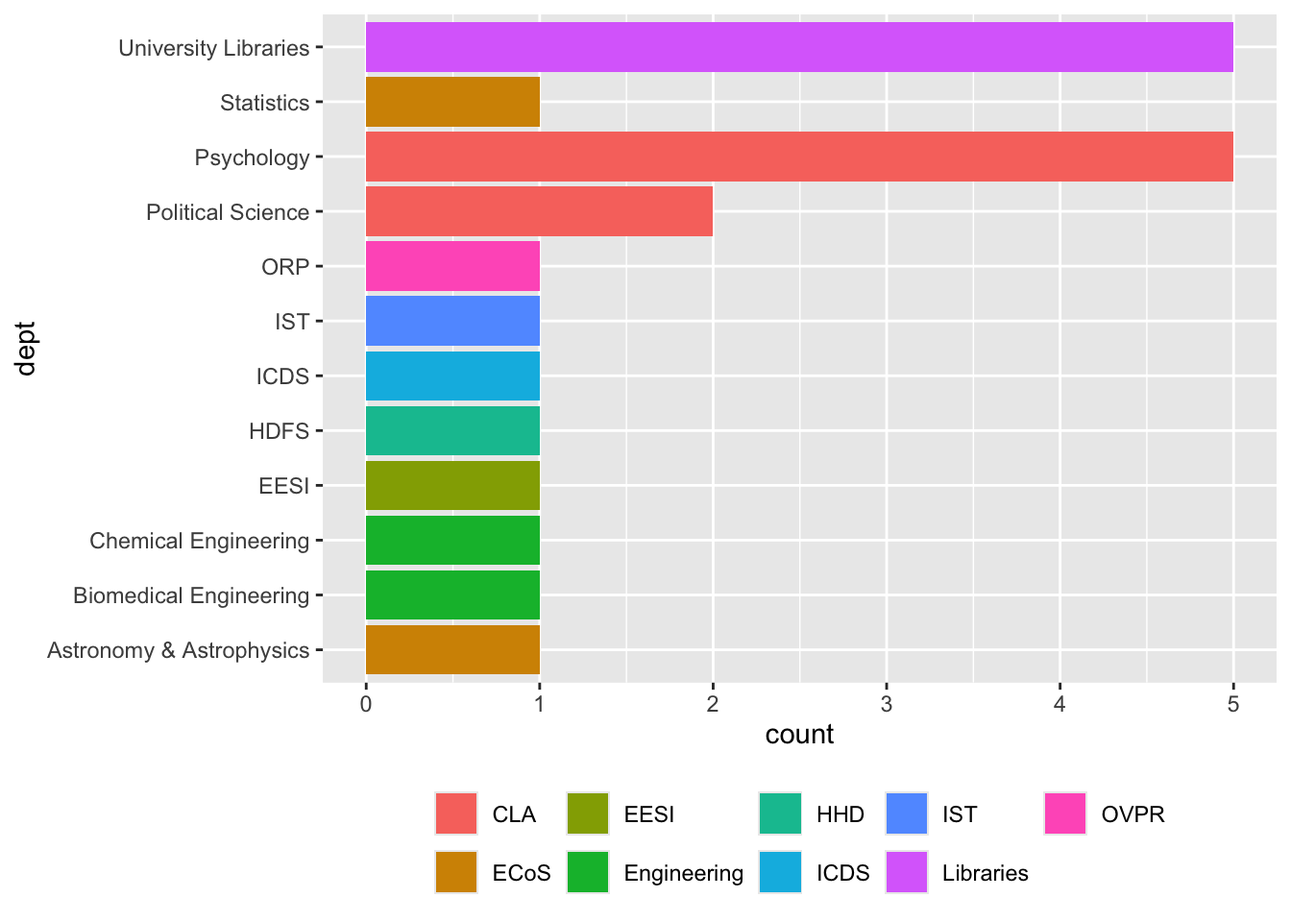
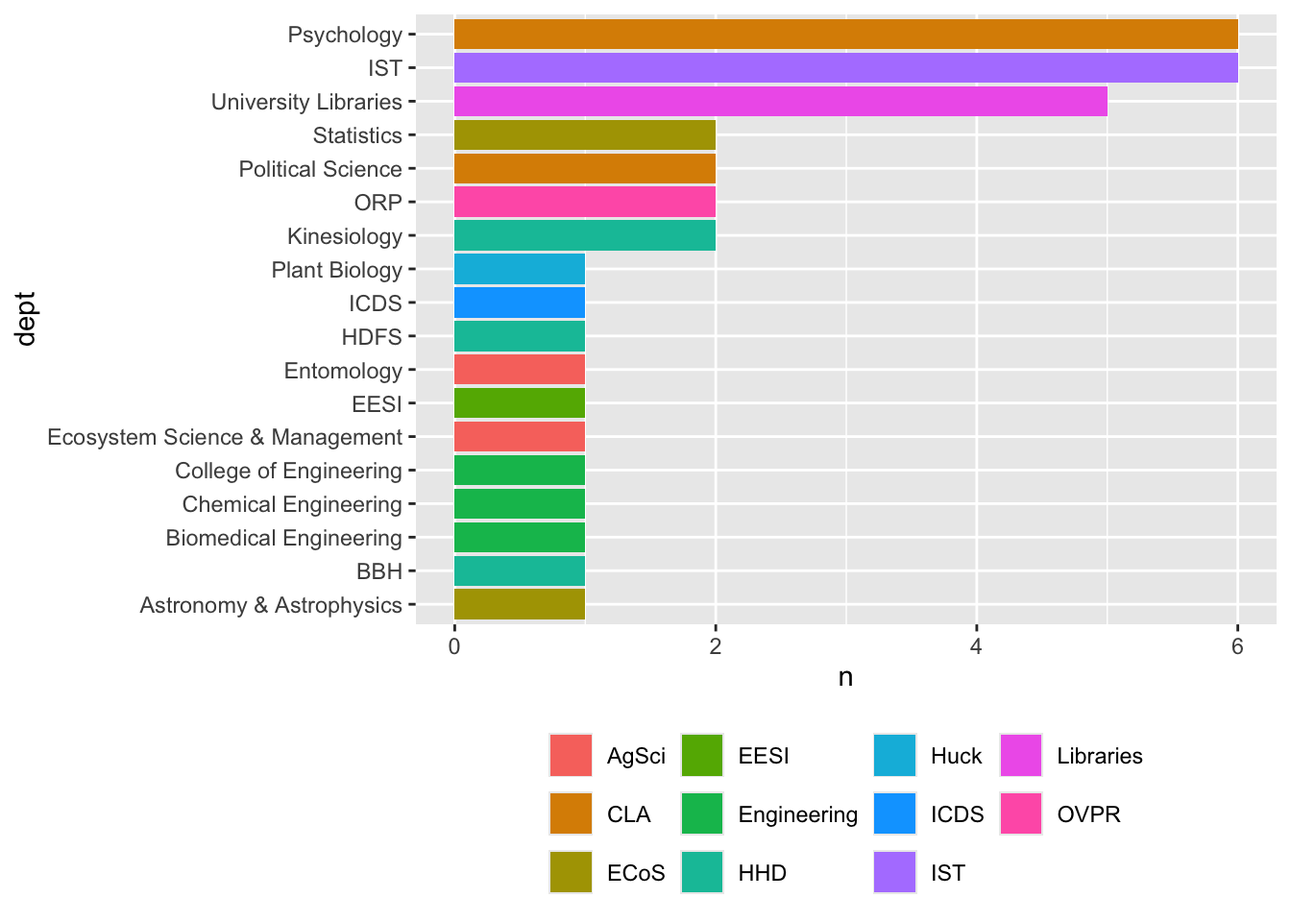
Add Olivia Beck and Sara Horn; reorder figures in registrations.qmd.

diff --git a/docs/registration.html b/docs/registration.html
@@ -301,7 +301,7 @@ window.Quarto = {
     <div>
     <div class="quarto-title-meta-heading">Modified</div>
     <div class="quarto-title-meta-contents">
-      <p class="date-modified">July 4, 2025</p>
+      <p class="date-modified">July 8, 2025</p>
     </div>
   </div>
     
@@ -532,7 +532,7 @@ Table&nbsp;9.1: A minimal data dictionary.
 <span id="cb7-5"><a href="#cb7-5" aria-hidden="true" tabindex="-1"></a>  dplyr<span class="sc">::</span><span class="fu">mutate</span>(<span class="at">keynotes =</span> stringr<span class="sc">::</span><span class="fu">str_detect</span>(<span class="at">string =</span> bootcamp_keynote, <span class="at">pattern =</span> <span class="st">"Keynote"</span>))</span></code><button title="Copy to Clipboard" class="code-copy-button"><i class="bi"></i></button></pre></div>
 </details>
 </div>
-<p>As of 2025-07-04 07:58:03.36449, we have <span class="math inline">\(n=\)</span> 22 registered attendees. That is 29.3 % of our target registration/attendance limit of <em>n</em>=75.</p>
+<p>As of 2025-07-08 10:20:08.55943, we have <span class="math inline">\(n=\)</span> 37 registered attendees. That is 49.3 % of our target registration/attendance limit of <em>n</em>=75.</p>
 </section>
 <section id="time-series" class="level3 unnumbered">
 <h3 class="unnumbered anchored" data-anchor-id="time-series">Time series</h3>
@@ -555,11 +555,11 @@ Table&nbsp;9.1: A minimal data dictionary.
 <span id="cb8-14"><a href="#cb8-14" aria-hidden="true" tabindex="-1"></a>  <span class="fu">theme</span>(<span class="at">legend.position =</span> <span class="st">"none"</span>)</span></code><button title="Copy to Clipboard" class="code-copy-button"><i class="bi"></i></button></pre></div>
 </details>
 <div class="cell-output cell-output-stderr">
-<pre><code>Warning: Removed 2 rows containing missing values or values outside the scale range
+<pre><code>Warning: Removed 17 rows containing missing values or values outside the scale range
 (`geom_point()`).</code></pre>
 </div>
 <div class="cell-output cell-output-stderr">
-<pre><code>Warning: Removed 2 rows containing missing values or values outside the scale range
+<pre><code>Warning: Removed 17 rows containing missing values or values outside the scale range
 (`geom_line()`).</code></pre>
 </div>
 <div class="cell-output-display">
@@ -617,13 +617,13 @@ n_fri
 <tbody>
 <tr>
 <td style="text-align:right;">
-15
+26
 </td>
 <td style="text-align:right;">
-18
+31
 </td>
 <td style="text-align:right;">
-12
+25
 </td>
 </tr>
 </tbody>
@@ -643,12 +643,14 @@ n_fri
 <summary>Code</summary>
 <div class="sourceCode cell-code" id="cb12"><pre class="sourceCode r code-with-copy"><code class="sourceCode r"><span id="cb12-1"><a href="#cb12-1" aria-hidden="true" tabindex="-1"></a>registrations_yes <span class="sc">|&gt;</span></span>
 <span id="cb12-2"><a href="#cb12-2" aria-hidden="true" tabindex="-1"></a>  dplyr<span class="sc">::</span><span class="fu">filter</span>(<span class="sc">!</span><span class="fu">is.na</span>(position)) <span class="sc">|&gt;</span></span>
-<span id="cb12-3"><a href="#cb12-3" aria-hidden="true" tabindex="-1"></a>  <span class="fu">ggplot</span>() <span class="sc">+</span></span>
-<span id="cb12-4"><a href="#cb12-4" aria-hidden="true" tabindex="-1"></a>  <span class="fu">aes</span>(<span class="at">x =</span> position, <span class="at">fill =</span> position) <span class="sc">+</span></span>
-<span id="cb12-5"><a href="#cb12-5" aria-hidden="true" tabindex="-1"></a>  <span class="fu">geom_bar</span>() <span class="sc">+</span></span>
-<span id="cb12-6"><a href="#cb12-6" aria-hidden="true" tabindex="-1"></a>  <span class="co"># facet_grid(registered_attended ~ .) +</span></span>
-<span id="cb12-7"><a href="#cb12-7" aria-hidden="true" tabindex="-1"></a>  <span class="fu">theme</span>(<span class="at">legend.position =</span> <span class="st">"none"</span>) <span class="sc">+</span></span>
-<span id="cb12-8"><a href="#cb12-8" aria-hidden="true" tabindex="-1"></a>  <span class="fu">coord_flip</span>()</span></code><button title="Copy to Clipboard" class="code-copy-button"><i class="bi"></i></button></pre></div>
+<span id="cb12-3"><a href="#cb12-3" aria-hidden="true" tabindex="-1"></a>  dplyr<span class="sc">::</span><span class="fu">count</span>(position) <span class="sc">|&gt;</span></span>
+<span id="cb12-4"><a href="#cb12-4" aria-hidden="true" tabindex="-1"></a>  dplyr<span class="sc">::</span><span class="fu">arrange</span>(n) <span class="sc">|&gt;</span></span>
+<span id="cb12-5"><a href="#cb12-5" aria-hidden="true" tabindex="-1"></a>  dplyr<span class="sc">::</span><span class="fu">mutate</span>(<span class="at">position =</span> <span class="fu">factor</span>(position, <span class="at">levels =</span> position)) <span class="sc">|&gt;</span></span>
+<span id="cb12-6"><a href="#cb12-6" aria-hidden="true" tabindex="-1"></a>  <span class="fu">ggplot</span>() <span class="sc">+</span></span>
+<span id="cb12-7"><a href="#cb12-7" aria-hidden="true" tabindex="-1"></a>  <span class="fu">aes</span>(<span class="at">x =</span> position, <span class="at">fill =</span> position) <span class="sc">+</span></span>
+<span id="cb12-8"><a href="#cb12-8" aria-hidden="true" tabindex="-1"></a>  <span class="fu">geom_bar</span>(<span class="fu">aes</span>(<span class="at">y =</span> n), <span class="at">stat =</span> <span class="st">"identity"</span>) <span class="sc">+</span></span>
+<span id="cb12-9"><a href="#cb12-9" aria-hidden="true" tabindex="-1"></a>  <span class="fu">theme</span>(<span class="at">legend.position =</span> <span class="st">"none"</span>) <span class="sc">+</span></span>
+<span id="cb12-10"><a href="#cb12-10" aria-hidden="true" tabindex="-1"></a>  <span class="fu">coord_flip</span>()</span></code><button title="Copy to Clipboard" class="code-copy-button"><i class="bi"></i></button></pre></div>
 </details>
 <div class="cell-output-display">
 <div id="fig-by-position" class="quarto-float quarto-figure quarto-figure-center anchored">
@@ -657,7 +659,7 @@ n_fri
 <img src="registration_files/figure-html/fig-by-position-1.png" class="img-fluid figure-img" width="672">
 </div>
 <figcaption class="quarto-float-caption-bottom quarto-float-caption quarto-float-fig" id="fig-by-position-caption-0ceaefa1-69ba-4598-a22c-09a6ac19f8ca">
-Figure&nbsp;9.2: Registrations vs.&nbsp;attendees by day and position
+Figure&nbsp;9.2: Registrations by position
 </figcaption>
 </figure>
 </div>
@@ -692,65 +694,71 @@ Figure&nbsp;9.2: Registrations vs.&nbsp;attendees by day and position
 <span id="cb13-22"><a href="#cb13-22" aria-hidden="true" tabindex="-1"></a>      <span class="st">`</span><span class="at">Human Development and Family Studies (HDFS)</span><span class="st">`</span> <span class="ot">=</span> <span class="st">"HDFS"</span>,</span>
 <span id="cb13-23"><a href="#cb13-23" aria-hidden="true" tabindex="-1"></a>      <span class="st">`</span><span class="at">Department of Human Development and Family Studies</span><span class="st">`</span> <span class="ot">=</span> <span class="st">"HDFS"</span>,</span>
 <span id="cb13-24"><a href="#cb13-24" aria-hidden="true" tabindex="-1"></a>      <span class="st">`</span><span class="at">HDFS/DEMO</span><span class="st">`</span> <span class="ot">=</span> <span class="st">"HDFS"</span>,</span>
-<span id="cb13-25"><a href="#cb13-25" aria-hidden="true" tabindex="-1"></a>      <span class="st">`</span><span class="at">RPTM</span><span class="st">`</span> <span class="ot">=</span> <span class="st">"Recreation, Park, &amp; Tourism Management"</span>,</span>
-<span id="cb13-26"><a href="#cb13-26" aria-hidden="true" tabindex="-1"></a>      <span class="st">`</span><span class="at">Sociology and Social Data Analytics</span><span class="st">`</span> <span class="ot">=</span> <span class="st">"Sociology"</span>,</span>
-<span id="cb13-27"><a href="#cb13-27" aria-hidden="true" tabindex="-1"></a>      <span class="st">`</span><span class="at">Spanish Italian and portuguese</span><span class="st">`</span> <span class="ot">=</span> <span class="st">"Spanish, Italian, &amp; Portuguese"</span>,</span>
-<span id="cb13-28"><a href="#cb13-28" aria-hidden="true" tabindex="-1"></a>      <span class="st">`</span><span class="at">Spanish, Italian, and Portuguese Department</span><span class="st">`</span> <span class="ot">=</span> <span class="st">"Spanish, Italian, &amp; Portuguese"</span>,</span>
-<span id="cb13-29"><a href="#cb13-29" aria-hidden="true" tabindex="-1"></a>      <span class="st">`</span><span class="at">Spanish Italian and Portuguese</span><span class="st">`</span> <span class="ot">=</span> <span class="st">"Spanish, Italian, &amp; Portuguese"</span>,</span>
-<span id="cb13-30"><a href="#cb13-30" aria-hidden="true" tabindex="-1"></a>      <span class="st">`</span><span class="at">Nutrition</span><span class="st">`</span> <span class="ot">=</span> <span class="st">"Nutritional Sciences"</span>,</span>
-<span id="cb13-31"><a href="#cb13-31" aria-hidden="true" tabindex="-1"></a>      <span class="st">`</span><span class="at">College of IST</span><span class="st">`</span> <span class="ot">=</span> <span class="st">"IST"</span>,</span>
-<span id="cb13-32"><a href="#cb13-32" aria-hidden="true" tabindex="-1"></a>      <span class="st">`</span><span class="at">Statistics Department</span><span class="st">`</span> <span class="ot">=</span> <span class="st">"Statistics"</span>,</span>
-<span id="cb13-33"><a href="#cb13-33" aria-hidden="true" tabindex="-1"></a>      <span class="st">`</span><span class="at">Recreation, Park and Tourism Management</span><span class="st">`</span> <span class="ot">=</span> <span class="st">"Recreation, Park, &amp; Tourism Management"</span>,</span>
-<span id="cb13-34"><a href="#cb13-34" aria-hidden="true" tabindex="-1"></a>      <span class="st">`</span><span class="at">SHS</span><span class="st">`</span> <span class="ot">=</span> <span class="st">"Student Health Svcs"</span>,</span>
-<span id="cb13-35"><a href="#cb13-35" aria-hidden="true" tabindex="-1"></a>      <span class="st">`</span><span class="at">ESM</span><span class="st">`</span> <span class="ot">=</span> <span class="st">"Engineering Science &amp; Mechanics"</span>,</span>
-<span id="cb13-36"><a href="#cb13-36" aria-hidden="true" tabindex="-1"></a>      <span class="st">`</span><span class="at">Engineering Science</span><span class="st">`</span> <span class="ot">=</span> <span class="st">"Engineering Science &amp; Mechanics"</span>,</span>
-<span id="cb13-37"><a href="#cb13-37" aria-hidden="true" tabindex="-1"></a>      <span class="st">`</span><span class="at">Engineering Science and Mechanics</span><span class="st">`</span> <span class="ot">=</span> <span class="st">"Engineering Science &amp; Mechanics"</span>,</span>
-<span id="cb13-38"><a href="#cb13-38" aria-hidden="true" tabindex="-1"></a>      <span class="st">`</span><span class="at">Department of Food Science</span><span class="st">`</span> <span class="ot">=</span> <span class="st">"Food Science"</span>,</span>
-<span id="cb13-39"><a href="#cb13-39" aria-hidden="true" tabindex="-1"></a>      <span class="st">`</span><span class="at">Libraries</span><span class="st">`</span> <span class="ot">=</span> <span class="st">"University Libraries"</span>,</span>
-<span id="cb13-40"><a href="#cb13-40" aria-hidden="true" tabindex="-1"></a>      <span class="st">`</span><span class="at">University libraries</span><span class="st">`</span> <span class="ot">=</span> <span class="st">"University Libraries"</span>,</span>
-<span id="cb13-41"><a href="#cb13-41" aria-hidden="true" tabindex="-1"></a>      </span>
-<span id="cb13-42"><a href="#cb13-42" aria-hidden="true" tabindex="-1"></a>      <span class="st">`</span><span class="at">Astronomy and Astrophysics</span><span class="st">`</span> <span class="ot">=</span> <span class="st">"Astronomy &amp; Astrophysics"</span></span>
-<span id="cb13-43"><a href="#cb13-43" aria-hidden="true" tabindex="-1"></a>    )</span>
-<span id="cb13-44"><a href="#cb13-44" aria-hidden="true" tabindex="-1"></a>  ) <span class="sc">|&gt;</span> </span>
-<span id="cb13-45"><a href="#cb13-45" aria-hidden="true" tabindex="-1"></a>  dplyr<span class="sc">::</span><span class="fu">mutate</span>(</span>
-<span id="cb13-46"><a href="#cb13-46" aria-hidden="true" tabindex="-1"></a>    <span class="at">college =</span> <span class="fu">case_match</span>(</span>
-<span id="cb13-47"><a href="#cb13-47" aria-hidden="true" tabindex="-1"></a>      dept,</span>
-<span id="cb13-48"><a href="#cb13-48" aria-hidden="true" tabindex="-1"></a>      <span class="st">"Statistics"</span> <span class="sc">~</span> <span class="st">"ECoS"</span>,</span>
-<span id="cb13-49"><a href="#cb13-49" aria-hidden="true" tabindex="-1"></a>      <span class="st">"Biology"</span> <span class="sc">~</span> <span class="st">"ECoS"</span>,</span>
-<span id="cb13-50"><a href="#cb13-50" aria-hidden="true" tabindex="-1"></a>      <span class="st">"Psychology"</span> <span class="sc">~</span> <span class="st">"CLA"</span>,</span>
-<span id="cb13-51"><a href="#cb13-51" aria-hidden="true" tabindex="-1"></a>      <span class="st">"Spanish, Italian, &amp; Portuguese"</span> <span class="sc">~</span> <span class="st">"CLA"</span>,</span>
-<span id="cb13-52"><a href="#cb13-52" aria-hidden="true" tabindex="-1"></a>      <span class="st">"Research Informatics and Publishing"</span> <span class="sc">~</span> <span class="st">"Libraries"</span>,</span>
-<span id="cb13-53"><a href="#cb13-53" aria-hidden="true" tabindex="-1"></a>      <span class="st">"Political Science"</span> <span class="sc">~</span> <span class="st">"CLA"</span>,</span>
-<span id="cb13-54"><a href="#cb13-54" aria-hidden="true" tabindex="-1"></a>      <span class="st">"Applied Linguistics"</span> <span class="sc">~</span> <span class="st">"CLA"</span>,</span>
-<span id="cb13-55"><a href="#cb13-55" aria-hidden="true" tabindex="-1"></a>      <span class="st">"Global Languages &amp; Literatures"</span> <span class="sc">~</span> <span class="st">"CLA"</span>,</span>
-<span id="cb13-56"><a href="#cb13-56" aria-hidden="true" tabindex="-1"></a>      <span class="st">"Sociology"</span> <span class="sc">~</span> <span class="st">"CLA"</span>,</span>
-<span id="cb13-57"><a href="#cb13-57" aria-hidden="true" tabindex="-1"></a>      <span class="st">"English"</span> <span class="sc">~</span> <span class="st">"CLA"</span>,</span>
-<span id="cb13-58"><a href="#cb13-58" aria-hidden="true" tabindex="-1"></a>      <span class="st">"C-SoDA"</span> <span class="sc">~</span> <span class="st">"CLA"</span>,</span>
-<span id="cb13-59"><a href="#cb13-59" aria-hidden="true" tabindex="-1"></a>      <span class="st">"Office of Digital Pedagogies and Initiatives"</span> <span class="sc">~</span> <span class="st">"CLA"</span>,</span>
-<span id="cb13-60"><a href="#cb13-60" aria-hidden="true" tabindex="-1"></a>      <span class="st">"Asian Studies"</span> <span class="sc">~</span> <span class="st">"CLA"</span>,</span>
-<span id="cb13-61"><a href="#cb13-61" aria-hidden="true" tabindex="-1"></a>      <span class="st">"IST"</span> <span class="sc">~</span> <span class="st">"IST"</span>,</span>
-<span id="cb13-62"><a href="#cb13-62" aria-hidden="true" tabindex="-1"></a>      <span class="st">"Chemical Engineering"</span> <span class="sc">~</span> <span class="st">"Engineering"</span>,</span>
-<span id="cb13-63"><a href="#cb13-63" aria-hidden="true" tabindex="-1"></a>      <span class="st">"Material Science and Engineering"</span> <span class="sc">~</span> <span class="st">"Engineering"</span>,</span>
-<span id="cb13-64"><a href="#cb13-64" aria-hidden="true" tabindex="-1"></a>      <span class="st">"Engineering Science &amp; Mechanics"</span> <span class="sc">~</span> <span class="st">"Engineering"</span>,</span>
-<span id="cb13-65"><a href="#cb13-65" aria-hidden="true" tabindex="-1"></a>      <span class="st">"Biomedical Engineering"</span> <span class="sc">~</span> <span class="st">"Engineering"</span>,</span>
-<span id="cb13-66"><a href="#cb13-66" aria-hidden="true" tabindex="-1"></a>      <span class="st">"Nutritional Sciences"</span> <span class="sc">~</span> <span class="st">"HHD"</span>,</span>
-<span id="cb13-67"><a href="#cb13-67" aria-hidden="true" tabindex="-1"></a>      <span class="st">"HDFS"</span> <span class="sc">~</span> <span class="st">"HHD"</span>,</span>
-<span id="cb13-68"><a href="#cb13-68" aria-hidden="true" tabindex="-1"></a>      <span class="st">"Kinesiology"</span> <span class="sc">~</span> <span class="st">"HHD"</span>,</span>
-<span id="cb13-69"><a href="#cb13-69" aria-hidden="true" tabindex="-1"></a>      <span class="st">"Recreation, Park, &amp; Tourism Management"</span> <span class="sc">~</span> <span class="st">"HHD"</span>,</span>
-<span id="cb13-70"><a href="#cb13-70" aria-hidden="true" tabindex="-1"></a>      <span class="st">"Bellisario College of Communication"</span> <span class="sc">~</span> <span class="st">"Comm"</span>,</span>
-<span id="cb13-71"><a href="#cb13-71" aria-hidden="true" tabindex="-1"></a>      <span class="st">"Marketing"</span> <span class="sc">~</span> <span class="st">"Smeal"</span>,</span>
-<span id="cb13-72"><a href="#cb13-72" aria-hidden="true" tabindex="-1"></a>      <span class="st">"Food Science"</span> <span class="sc">~</span> <span class="st">"Ag"</span>,</span>
-<span id="cb13-73"><a href="#cb13-73" aria-hidden="true" tabindex="-1"></a>      <span class="st">"Neuroscience"</span> <span class="sc">~</span> <span class="st">"Med"</span>,</span>
-<span id="cb13-74"><a href="#cb13-74" aria-hidden="true" tabindex="-1"></a>      <span class="st">"College of Human and Health Development"</span> <span class="sc">~</span> <span class="st">"HHD"</span>,</span>
-<span id="cb13-75"><a href="#cb13-75" aria-hidden="true" tabindex="-1"></a>      <span class="st">"University Libraries"</span> <span class="sc">~</span> <span class="st">"Libraries"</span>,</span>
-<span id="cb13-76"><a href="#cb13-76" aria-hidden="true" tabindex="-1"></a>      <span class="st">"ICDS"</span> <span class="sc">~</span> <span class="st">"ICDS"</span>,</span>
-<span id="cb13-77"><a href="#cb13-77" aria-hidden="true" tabindex="-1"></a>      <span class="st">"EESI"</span> <span class="sc">~</span> <span class="st">"EESI"</span>,</span>
-<span id="cb13-78"><a href="#cb13-78" aria-hidden="true" tabindex="-1"></a>      <span class="st">"ORP"</span> <span class="sc">~</span> <span class="st">"OVPR"</span>,</span>
-<span id="cb13-79"><a href="#cb13-79" aria-hidden="true" tabindex="-1"></a>      <span class="st">"Astronomy &amp; Astrophysics"</span> <span class="sc">~</span> <span class="st">"ECoS"</span></span>
-<span id="cb13-80"><a href="#cb13-80" aria-hidden="true" tabindex="-1"></a>    ),</span>
-<span id="cb13-81"><a href="#cb13-81" aria-hidden="true" tabindex="-1"></a>    <span class="at">.default =</span> <span class="st">"Unknown"</span>,</span>
-<span id="cb13-82"><a href="#cb13-82" aria-hidden="true" tabindex="-1"></a>    <span class="at">.missing =</span> <span class="st">"Unknown"</span></span>
-<span id="cb13-83"><a href="#cb13-83" aria-hidden="true" tabindex="-1"></a>  )</span></code><button title="Copy to Clipboard" class="code-copy-button"><i class="bi"></i></button></pre></div>
+<span id="cb13-25"><a href="#cb13-25" aria-hidden="true" tabindex="-1"></a>      <span class="st">`</span><span class="at">bbh</span><span class="st">`</span> <span class="ot">=</span> <span class="st">"BBH"</span>,</span>
+<span id="cb13-26"><a href="#cb13-26" aria-hidden="true" tabindex="-1"></a>      <span class="st">`</span><span class="at">RPTM</span><span class="st">`</span> <span class="ot">=</span> <span class="st">"Recreation, Park, &amp; Tourism Management"</span>,</span>
+<span id="cb13-27"><a href="#cb13-27" aria-hidden="true" tabindex="-1"></a>      <span class="st">`</span><span class="at">Sociology and Social Data Analytics</span><span class="st">`</span> <span class="ot">=</span> <span class="st">"Sociology"</span>,</span>
+<span id="cb13-28"><a href="#cb13-28" aria-hidden="true" tabindex="-1"></a>      <span class="st">`</span><span class="at">Spanish Italian and portuguese</span><span class="st">`</span> <span class="ot">=</span> <span class="st">"Spanish, Italian, &amp; Portuguese"</span>,</span>
+<span id="cb13-29"><a href="#cb13-29" aria-hidden="true" tabindex="-1"></a>      <span class="st">`</span><span class="at">Spanish, Italian, and Portuguese Department</span><span class="st">`</span> <span class="ot">=</span> <span class="st">"Spanish, Italian, &amp; Portuguese"</span>,</span>
+<span id="cb13-30"><a href="#cb13-30" aria-hidden="true" tabindex="-1"></a>      <span class="st">`</span><span class="at">Spanish Italian and Portuguese</span><span class="st">`</span> <span class="ot">=</span> <span class="st">"Spanish, Italian, &amp; Portuguese"</span>,</span>
+<span id="cb13-31"><a href="#cb13-31" aria-hidden="true" tabindex="-1"></a>      <span class="st">`</span><span class="at">Nutrition</span><span class="st">`</span> <span class="ot">=</span> <span class="st">"Nutritional Sciences"</span>,</span>
+<span id="cb13-32"><a href="#cb13-32" aria-hidden="true" tabindex="-1"></a>      <span class="st">`</span><span class="at">College of IST</span><span class="st">`</span> <span class="ot">=</span> <span class="st">"IST"</span>,</span>
+<span id="cb13-33"><a href="#cb13-33" aria-hidden="true" tabindex="-1"></a>      <span class="st">`</span><span class="at">Statistics Department</span><span class="st">`</span> <span class="ot">=</span> <span class="st">"Statistics"</span>,</span>
+<span id="cb13-34"><a href="#cb13-34" aria-hidden="true" tabindex="-1"></a>      <span class="st">`</span><span class="at">Recreation, Park and Tourism Management</span><span class="st">`</span> <span class="ot">=</span> <span class="st">"Recreation, Park, &amp; Tourism Management"</span>,</span>
+<span id="cb13-35"><a href="#cb13-35" aria-hidden="true" tabindex="-1"></a>      <span class="st">`</span><span class="at">SHS</span><span class="st">`</span> <span class="ot">=</span> <span class="st">"Student Health Svcs"</span>,</span>
+<span id="cb13-36"><a href="#cb13-36" aria-hidden="true" tabindex="-1"></a>      <span class="st">`</span><span class="at">ESM</span><span class="st">`</span> <span class="ot">=</span> <span class="st">"Engineering Science &amp; Mechanics"</span>,</span>
+<span id="cb13-37"><a href="#cb13-37" aria-hidden="true" tabindex="-1"></a>      <span class="st">`</span><span class="at">Engineering Science</span><span class="st">`</span> <span class="ot">=</span> <span class="st">"Engineering Science &amp; Mechanics"</span>,</span>
+<span id="cb13-38"><a href="#cb13-38" aria-hidden="true" tabindex="-1"></a>      <span class="st">`</span><span class="at">Engineering Science and Mechanics</span><span class="st">`</span> <span class="ot">=</span> <span class="st">"Engineering Science &amp; Mechanics"</span>,</span>
+<span id="cb13-39"><a href="#cb13-39" aria-hidden="true" tabindex="-1"></a>      <span class="st">`</span><span class="at">Department of Food Science</span><span class="st">`</span> <span class="ot">=</span> <span class="st">"Food Science"</span>,</span>
+<span id="cb13-40"><a href="#cb13-40" aria-hidden="true" tabindex="-1"></a>      <span class="st">`</span><span class="at">Libraries</span><span class="st">`</span> <span class="ot">=</span> <span class="st">"University Libraries"</span>,</span>
+<span id="cb13-41"><a href="#cb13-41" aria-hidden="true" tabindex="-1"></a>      <span class="st">`</span><span class="at">University libraries</span><span class="st">`</span> <span class="ot">=</span> <span class="st">"University Libraries"</span>,</span>
+<span id="cb13-42"><a href="#cb13-42" aria-hidden="true" tabindex="-1"></a>      <span class="st">`</span><span class="at">Astronomy and Astrophysics</span><span class="st">`</span> <span class="ot">=</span> <span class="st">"Astronomy &amp; Astrophysics"</span>,</span>
+<span id="cb13-43"><a href="#cb13-43" aria-hidden="true" tabindex="-1"></a>      <span class="st">`</span><span class="at">Ecosystem Science and Management</span><span class="st">`</span> <span class="ot">=</span> <span class="st">"Ecosystem Science &amp; Management"</span></span>
+<span id="cb13-44"><a href="#cb13-44" aria-hidden="true" tabindex="-1"></a>    )</span>
+<span id="cb13-45"><a href="#cb13-45" aria-hidden="true" tabindex="-1"></a>  ) <span class="sc">|&gt;</span> </span>
+<span id="cb13-46"><a href="#cb13-46" aria-hidden="true" tabindex="-1"></a>  dplyr<span class="sc">::</span><span class="fu">mutate</span>(</span>
+<span id="cb13-47"><a href="#cb13-47" aria-hidden="true" tabindex="-1"></a>    <span class="at">college =</span> <span class="fu">case_match</span>(</span>
+<span id="cb13-48"><a href="#cb13-48" aria-hidden="true" tabindex="-1"></a>      dept,</span>
+<span id="cb13-49"><a href="#cb13-49" aria-hidden="true" tabindex="-1"></a>      <span class="st">"Statistics"</span> <span class="sc">~</span> <span class="st">"ECoS"</span>,</span>
+<span id="cb13-50"><a href="#cb13-50" aria-hidden="true" tabindex="-1"></a>      <span class="st">"Biology"</span> <span class="sc">~</span> <span class="st">"ECoS"</span>,</span>
+<span id="cb13-51"><a href="#cb13-51" aria-hidden="true" tabindex="-1"></a>      <span class="st">"Psychology"</span> <span class="sc">~</span> <span class="st">"CLA"</span>,</span>
+<span id="cb13-52"><a href="#cb13-52" aria-hidden="true" tabindex="-1"></a>      <span class="st">"Spanish, Italian, &amp; Portuguese"</span> <span class="sc">~</span> <span class="st">"CLA"</span>,</span>
+<span id="cb13-53"><a href="#cb13-53" aria-hidden="true" tabindex="-1"></a>      <span class="st">"Research Informatics and Publishing"</span> <span class="sc">~</span> <span class="st">"Libraries"</span>,</span>
+<span id="cb13-54"><a href="#cb13-54" aria-hidden="true" tabindex="-1"></a>      <span class="st">"Political Science"</span> <span class="sc">~</span> <span class="st">"CLA"</span>,</span>
+<span id="cb13-55"><a href="#cb13-55" aria-hidden="true" tabindex="-1"></a>      <span class="st">"Applied Linguistics"</span> <span class="sc">~</span> <span class="st">"CLA"</span>,</span>
+<span id="cb13-56"><a href="#cb13-56" aria-hidden="true" tabindex="-1"></a>      <span class="st">"Global Languages &amp; Literatures"</span> <span class="sc">~</span> <span class="st">"CLA"</span>,</span>
+<span id="cb13-57"><a href="#cb13-57" aria-hidden="true" tabindex="-1"></a>      <span class="st">"Sociology"</span> <span class="sc">~</span> <span class="st">"CLA"</span>,</span>
+<span id="cb13-58"><a href="#cb13-58" aria-hidden="true" tabindex="-1"></a>      <span class="st">"English"</span> <span class="sc">~</span> <span class="st">"CLA"</span>,</span>
+<span id="cb13-59"><a href="#cb13-59" aria-hidden="true" tabindex="-1"></a>      <span class="st">"C-SoDA"</span> <span class="sc">~</span> <span class="st">"CLA"</span>,</span>
+<span id="cb13-60"><a href="#cb13-60" aria-hidden="true" tabindex="-1"></a>      <span class="st">"Office of Digital Pedagogies and Initiatives"</span> <span class="sc">~</span> <span class="st">"CLA"</span>,</span>
+<span id="cb13-61"><a href="#cb13-61" aria-hidden="true" tabindex="-1"></a>      <span class="st">"Asian Studies"</span> <span class="sc">~</span> <span class="st">"CLA"</span>,</span>
+<span id="cb13-62"><a href="#cb13-62" aria-hidden="true" tabindex="-1"></a>      <span class="st">"IST"</span> <span class="sc">~</span> <span class="st">"IST"</span>,</span>
+<span id="cb13-63"><a href="#cb13-63" aria-hidden="true" tabindex="-1"></a>      <span class="st">"Chemical Engineering"</span> <span class="sc">~</span> <span class="st">"Engineering"</span>,</span>
+<span id="cb13-64"><a href="#cb13-64" aria-hidden="true" tabindex="-1"></a>      <span class="st">"Material Science and Engineering"</span> <span class="sc">~</span> <span class="st">"Engineering"</span>,</span>
+<span id="cb13-65"><a href="#cb13-65" aria-hidden="true" tabindex="-1"></a>      <span class="st">"Engineering Science &amp; Mechanics"</span> <span class="sc">~</span> <span class="st">"Engineering"</span>,</span>
+<span id="cb13-66"><a href="#cb13-66" aria-hidden="true" tabindex="-1"></a>      <span class="st">"College of Engineering"</span> <span class="sc">~</span> <span class="st">"Engineering"</span>,</span>
+<span id="cb13-67"><a href="#cb13-67" aria-hidden="true" tabindex="-1"></a>      <span class="st">"Biomedical Engineering"</span> <span class="sc">~</span> <span class="st">"Engineering"</span>,</span>
+<span id="cb13-68"><a href="#cb13-68" aria-hidden="true" tabindex="-1"></a>      <span class="st">"Nutritional Sciences"</span> <span class="sc">~</span> <span class="st">"HHD"</span>,</span>
+<span id="cb13-69"><a href="#cb13-69" aria-hidden="true" tabindex="-1"></a>      <span class="st">"HDFS"</span> <span class="sc">~</span> <span class="st">"HHD"</span>,</span>
+<span id="cb13-70"><a href="#cb13-70" aria-hidden="true" tabindex="-1"></a>      <span class="st">"Kinesiology"</span> <span class="sc">~</span> <span class="st">"HHD"</span>,</span>
+<span id="cb13-71"><a href="#cb13-71" aria-hidden="true" tabindex="-1"></a>      <span class="st">"Recreation, Park, &amp; Tourism Management"</span> <span class="sc">~</span> <span class="st">"HHD"</span>,</span>
+<span id="cb13-72"><a href="#cb13-72" aria-hidden="true" tabindex="-1"></a>      <span class="st">"BBH"</span> <span class="sc">~</span> <span class="st">"HHD"</span>,</span>
+<span id="cb13-73"><a href="#cb13-73" aria-hidden="true" tabindex="-1"></a>      <span class="st">"Bellisario College of Communication"</span> <span class="sc">~</span> <span class="st">"Comm"</span>,</span>
+<span id="cb13-74"><a href="#cb13-74" aria-hidden="true" tabindex="-1"></a>      <span class="st">"Marketing"</span> <span class="sc">~</span> <span class="st">"Smeal"</span>,</span>
+<span id="cb13-75"><a href="#cb13-75" aria-hidden="true" tabindex="-1"></a>      <span class="st">"Food Science"</span> <span class="sc">~</span> <span class="st">"Ag"</span>,</span>
+<span id="cb13-76"><a href="#cb13-76" aria-hidden="true" tabindex="-1"></a>      <span class="st">"Neuroscience"</span> <span class="sc">~</span> <span class="st">"Med"</span>,</span>
+<span id="cb13-77"><a href="#cb13-77" aria-hidden="true" tabindex="-1"></a>      <span class="st">"College of Human and Health Development"</span> <span class="sc">~</span> <span class="st">"HHD"</span>,</span>
+<span id="cb13-78"><a href="#cb13-78" aria-hidden="true" tabindex="-1"></a>      <span class="st">"University Libraries"</span> <span class="sc">~</span> <span class="st">"Libraries"</span>,</span>
+<span id="cb13-79"><a href="#cb13-79" aria-hidden="true" tabindex="-1"></a>      <span class="st">"ICDS"</span> <span class="sc">~</span> <span class="st">"ICDS"</span>,</span>
+<span id="cb13-80"><a href="#cb13-80" aria-hidden="true" tabindex="-1"></a>      <span class="st">"EESI"</span> <span class="sc">~</span> <span class="st">"EESI"</span>,</span>
+<span id="cb13-81"><a href="#cb13-81" aria-hidden="true" tabindex="-1"></a>      <span class="st">"ORP"</span> <span class="sc">~</span> <span class="st">"OVPR"</span>,</span>
+<span id="cb13-82"><a href="#cb13-82" aria-hidden="true" tabindex="-1"></a>      <span class="st">"Astronomy &amp; Astrophysics"</span> <span class="sc">~</span> <span class="st">"ECoS"</span>,</span>
+<span id="cb13-83"><a href="#cb13-83" aria-hidden="true" tabindex="-1"></a>      <span class="st">"Entomology"</span> <span class="sc">~</span> <span class="st">"AgSci"</span>,</span>
+<span id="cb13-84"><a href="#cb13-84" aria-hidden="true" tabindex="-1"></a>      <span class="st">"Ecosystem Science &amp; Management"</span> <span class="sc">~</span> <span class="st">"AgSci"</span>,</span>
+<span id="cb13-85"><a href="#cb13-85" aria-hidden="true" tabindex="-1"></a>      <span class="st">"Plant Biology"</span> <span class="sc">~</span> <span class="st">"Huck"</span></span>
+<span id="cb13-86"><a href="#cb13-86" aria-hidden="true" tabindex="-1"></a>    ),</span>
+<span id="cb13-87"><a href="#cb13-87" aria-hidden="true" tabindex="-1"></a>    <span class="at">.default =</span> <span class="st">"Unknown"</span>,</span>
+<span id="cb13-88"><a href="#cb13-88" aria-hidden="true" tabindex="-1"></a>    <span class="at">.missing =</span> <span class="st">"Unknown"</span></span>
+<span id="cb13-89"><a href="#cb13-89" aria-hidden="true" tabindex="-1"></a>  )</span></code><button title="Copy to Clipboard" class="code-copy-button"><i class="bi"></i></button></pre></div>
 </details>
 </div>
 <div class="cell">
@@ -759,12 +767,14 @@ Figure&nbsp;9.2: Registrations vs.&nbsp;attendees by day and position
 <div class="sourceCode cell-code" id="cb14"><pre class="sourceCode r code-with-copy"><code class="sourceCode r"><span id="cb14-1"><a href="#cb14-1" aria-hidden="true" tabindex="-1"></a>registrations_yes <span class="sc">|&gt;</span></span>
 <span id="cb14-2"><a href="#cb14-2" aria-hidden="true" tabindex="-1"></a>  dplyr<span class="sc">::</span><span class="fu">filter</span>(<span class="sc">!</span><span class="fu">is.na</span>(dept),</span>
 <span id="cb14-3"><a href="#cb14-3" aria-hidden="true" tabindex="-1"></a>                dept <span class="sc">!=</span> <span class="st">"University of Pennsylvania"</span>) <span class="sc">|&gt;</span></span>
-<span id="cb14-4"><a href="#cb14-4" aria-hidden="true" tabindex="-1"></a>  <span class="fu">ggplot</span>() <span class="sc">+</span></span>
-<span id="cb14-5"><a href="#cb14-5" aria-hidden="true" tabindex="-1"></a>  <span class="fu">aes</span>(<span class="at">x =</span> dept, <span class="at">fill =</span> college) <span class="sc">+</span></span>
-<span id="cb14-6"><a href="#cb14-6" aria-hidden="true" tabindex="-1"></a>  <span class="fu">geom_bar</span>() <span class="sc">+</span></span>
-<span id="cb14-7"><a href="#cb14-7" aria-hidden="true" tabindex="-1"></a>  <span class="fu">theme</span>(<span class="at">legend.position =</span> <span class="st">"bottom"</span>) <span class="sc">+</span></span>
-<span id="cb14-8"><a href="#cb14-8" aria-hidden="true" tabindex="-1"></a>  <span class="fu">theme</span>(<span class="at">legend.title =</span> <span class="fu">element_blank</span>()) <span class="sc">+</span></span>
-<span id="cb14-9"><a href="#cb14-9" aria-hidden="true" tabindex="-1"></a>  <span class="fu">coord_flip</span>()</span></code><button title="Copy to Clipboard" class="code-copy-button"><i class="bi"></i></button></pre></div>
+<span id="cb14-4"><a href="#cb14-4" aria-hidden="true" tabindex="-1"></a>  dplyr<span class="sc">::</span><span class="fu">count</span>(dept, college, <span class="at">sort =</span> <span class="cn">TRUE</span>) <span class="sc">|&gt;</span></span>
+<span id="cb14-5"><a href="#cb14-5" aria-hidden="true" tabindex="-1"></a>  dplyr<span class="sc">::</span><span class="fu">mutate</span>(<span class="at">dept =</span> <span class="fu">fct_reorder</span>(dept, n)) <span class="sc">|&gt;</span></span>
+<span id="cb14-6"><a href="#cb14-6" aria-hidden="true" tabindex="-1"></a>  <span class="fu">ggplot</span>() <span class="sc">+</span></span>
+<span id="cb14-7"><a href="#cb14-7" aria-hidden="true" tabindex="-1"></a>  <span class="fu">aes</span>(<span class="at">x =</span> dept, <span class="at">fill =</span> college) <span class="sc">+</span></span>
+<span id="cb14-8"><a href="#cb14-8" aria-hidden="true" tabindex="-1"></a>  <span class="fu">geom_bar</span>(<span class="fu">aes</span>(<span class="at">y =</span> n), <span class="at">stat =</span> <span class="st">"identity"</span>) <span class="sc">+</span></span>
+<span id="cb14-9"><a href="#cb14-9" aria-hidden="true" tabindex="-1"></a>  <span class="fu">theme</span>(<span class="at">legend.position =</span> <span class="st">"bottom"</span>) <span class="sc">+</span></span>
+<span id="cb14-10"><a href="#cb14-10" aria-hidden="true" tabindex="-1"></a>  <span class="fu">theme</span>(<span class="at">legend.title =</span> <span class="fu">element_blank</span>()) <span class="sc">+</span></span>
+<span id="cb14-11"><a href="#cb14-11" aria-hidden="true" tabindex="-1"></a>  <span class="fu">coord_flip</span>()</span></code><button title="Copy to Clipboard" class="code-copy-button"><i class="bi"></i></button></pre></div>
 </details>
 <div class="cell-output-display">
 <div id="fig-regis-dept-coll" class="quarto-float quarto-figure quarto-figure-center anchored">

diff --git a/docs/presenters.html b/docs/presenters.html
@@ -202,7 +202,9 @@ ul.task-list li input[type="checkbox"] {
     <h2 id="toc-title">Table of contents</h2>
    
   <ul>
-  <li><a href="#kyle-hallisky" id="toc-kyle-hallisky" class="nav-link active" data-scroll-target="#kyle-hallisky">Kyle Hallisky</a></li>
+  <li><a href="#olivia-beck" id="toc-olivia-beck" class="nav-link active" data-scroll-target="#olivia-beck">Olivia Beck</a></li>
+  <li><a href="#kyle-hallisky" id="toc-kyle-hallisky" class="nav-link" data-scroll-target="#kyle-hallisky">Kyle Hallisky</a></li>
+  <li><a href="#sara-horn" id="toc-sara-horn" class="nav-link" data-scroll-target="#sara-horn">Sara Horn</a></li>
   <li><a href="#lynda-kellam" id="toc-lynda-kellam" class="nav-link" data-scroll-target="#lynda-kellam">Lynda Kellam</a></li>
   <li><a href="#maurie-kelly" id="toc-maurie-kelly" class="nav-link" data-scroll-target="#maurie-kelly">Maurie Kelly</a></li>
   <li><a href="#koraly-pérez-edgar" id="toc-koraly-pérez-edgar" class="nav-link" data-scroll-target="#koraly-pérez-edgar">Koraly Pérez-Edgar</a></li>
@@ -229,7 +231,7 @@ ul.task-list li input[type="checkbox"] {
     <div>
     <div class="quarto-title-meta-heading">Modified</div>
     <div class="quarto-title-meta-contents">
-      <p class="date-modified">June 30, 2025</p>
+      <p class="date-modified">July 8, 2025</p>
     </div>
   </div>
     
@@ -240,13 +242,33 @@ ul.task-list li input[type="checkbox"] {
 </header>
 
 
+<section id="olivia-beck" class="level2 unnumbered">
+<h2 class="unnumbered anchored" data-anchor-id="olivia-beck">Olivia Beck</h2>
+<div class="columns">
+<div class="column" style="width:50%;">
+<p><img src="include/img/olivia-beck.jpg" width="200" height="200"></p>
+</div><div class="column" style="width:50%;">
+<p>Olivia L. Beck earned her Ph.D.&nbsp;in Statistics from Penn State.</p>
+</div>
+</div>
+</section>
 <section id="kyle-hallisky" class="level2 unnumbered">
 <h2 class="unnumbered anchored" data-anchor-id="kyle-hallisky">Kyle Hallisky</h2>
 <div class="columns">
 <div class="column" style="width:50%;">
 <p><img src="include/img/kyle-hallisky.JPEG" width="200" height="200"></p>
 </div><div class="column" style="width:50%;">
-<p>Kyle Hallisky is a PhD Student in Nutritional Science &amp; Social and Behavioral Neuroscience at Penn State. His research integrates behavioral and neuroimaging methods to investigate mechanisms of self-regulation related to children’s eating behavior and food choice. Kyle has extensive experience managing NIH-funded longitudinal studies focused on children’s eating behavior, and has designed and maintained user-friendly databases to support data collection and analysis for these projects. He actively incorporates open science principles into his research, including preregistration of study hypotheses on ClinicalTrials.gov, transparent data and code sharing on the Open Science Framework, and the use of open-source software to promote reproducibility.</p>
+<p>Kyle Hallisky is a Ph.D.&nbsp;Student in Nutritional Science &amp; Social and Behavioral Neuroscience at Penn State. His research integrates behavioral and neuroimaging methods to investigate mechanisms of self-regulation related to children’s eating behavior and food choice. Kyle has extensive experience managing NIH-funded longitudinal studies focused on children’s eating behavior, and has designed and maintained user-friendly databases to support data collection and analysis for these projects. He actively incorporates open science principles into his research, including preregistration of study hypotheses on ClinicalTrials.gov, transparent data and code sharing on the Open Science Framework, and the use of open-source software to promote reproducibility.</p>
+</div>
+</div>
+</section>
+<section id="sara-horn" class="level2 unnumbered">
+<h2 class="unnumbered anchored" data-anchor-id="sara-horn">Sara Horn</h2>
+<div class="columns">
+<div class="column" style="width:50%;">
+<p><img src="include/img/sara-horn.jpeg" width="200" height="200"></p>
+</div><div class="column" style="width:50%;">
+<p>Sara Horn directs the Penn State Institutional Review Board (IRB).</p>
 </div>
 </div>
 </section>

diff --git a/docs/day-2.html b/docs/day-2.html
@@ -242,7 +242,7 @@ ul.task-list li input[type="checkbox"] {
     <div>
     <div class="quarto-title-meta-heading">Modified</div>
     <div class="quarto-title-meta-contents">
-      <p class="date-modified">July 2, 2025</p>
+      <p class="date-modified">July 8, 2025</p>
     </div>
   </div>
     
@@ -270,12 +270,16 @@ ul.task-list li input[type="checkbox"] {
 </section>
 <section id="day_2_plenary_1" class="level3 unnumbered">
 <h3 class="unnumbered anchored" data-anchor-id="day_2_plenary_1">09:30 am • Panel Discussion</h3>
-<p>Panel discussion on ethical considerations for open scholarship</p>
+<section id="ethical-considerations-for-open-scholarship" class="level4">
+<h4 class="anchored" data-anchor-id="ethical-considerations-for-open-scholarship">Ethical considerations for open scholarship</h4>
 <ul>
 <li><a href="./presenters.html#kimberly-petrosky">Kimberly Petrosky</a>, Penn State Office of Research Protections</li>
 <li><a href="./program-committee.html#sarah-rajtmajer">Sarah Rajtmajer</a>, College of IST &amp; Rock Ethics Institute</li>
+<li><a href="./presenters.html#sara-horn">Sara Horn</a>, Penn State Office of Research Protections</li>
+<li><a href="./directors.html#rick-gilmore">Rick Gilmore</a>, Databrary</li>
 <li><a href="./program-committee.html#nicole-lazar">Nicole Lazar</a>, Department of Statistics (Moderator)</li>
 </ul>
+</section>
 </section>
 <section id="am-break" class="level3 unnumbered">
 <h3 class="unnumbered anchored" data-anchor-id="am-break">10:30 am • Break</h3>
@@ -283,7 +287,7 @@ ul.task-list li input[type="checkbox"] {
 <section id="day_2_plenary_2" class="level3 unnumbered">
 <h3 class="unnumbered anchored" data-anchor-id="day_2_plenary_2">10:45 am • Keynote</h3>
 <section id="rescuing-and-preserving-public-data-the-data-rescue-project" class="level4">
-<h4 class="anchored" data-anchor-id="rescuing-and-preserving-public-data-the-data-rescue-project">“<strong>Rescuing and Preserving Public Data: The Data Rescue Project</strong>”</h4>
+<h4 class="anchored" data-anchor-id="rescuing-and-preserving-public-data-the-data-rescue-project">“<strong>Rescuing and preserving public data: The data rescue project</strong>”</h4>
 <p><a href="./presenters.html#lynda-kellam">Lynda Kellam</a>, University of Pennsylvania</p>
 <div class="callout callout-style-default callout-important callout-titled">
 <div class="callout-header d-flex align-content-center">
@@ -368,6 +372,21 @@ Location
 </section>
 <section id="day_2_happy_hour" class="level3 unnumbered">
 <h3 class="unnumbered anchored" data-anchor-id="day_2_happy_hour">04:30 pm • Open scholarship happy hour</h3>
+<p>Hors d’oeuvres provided by the Bootcamp sponsors. Cash bar.</p>
+<div class="callout callout-style-default callout-important callout-titled">
+<div class="callout-header d-flex align-content-center">
+<div class="callout-icon-container">
+<i class="callout-icon"></i>
+</div>
+<div class="callout-title-container flex-fill">
+Location
+</div>
+</div>
+<div class="callout-body-container callout-body">
+<p>The Lobby Bar<br>
+100 West College Avenue</p>
+</div>
+</div>
 
 
 </section>

diff --git a/docs/day-3.html b/docs/day-3.html
@@ -230,7 +230,7 @@ ul.task-list li input[type="checkbox"] {
     <div>
     <div class="quarto-title-meta-heading">Modified</div>
     <div class="quarto-title-meta-contents">
-      <p class="date-modified">July 2, 2025</p>
+      <p class="date-modified">July 8, 2025</p>
     </div>
   </div>
     
@@ -289,7 +289,7 @@ Logistics
 </thead>
 <tbody>
 <tr class="odd">
-<td>Early career panel (<a href="./program-committee.html#carlos-freitas-almeida">Almeida</a>, <a href="./presenters.html#kyle-hallisky">Hallisky</a>)</td>
+<td>Early career panel (<a href="./program-committee.html#carlos-freitas-almeida">Almeida</a>, <a href="./presenters.html#kyle-hallisky">Hallisky</a>, &amp; <a href="./presenters.html#olivia-beck">Beck</a>)</td>
 <td></td>
 <td></td>
 </tr>
